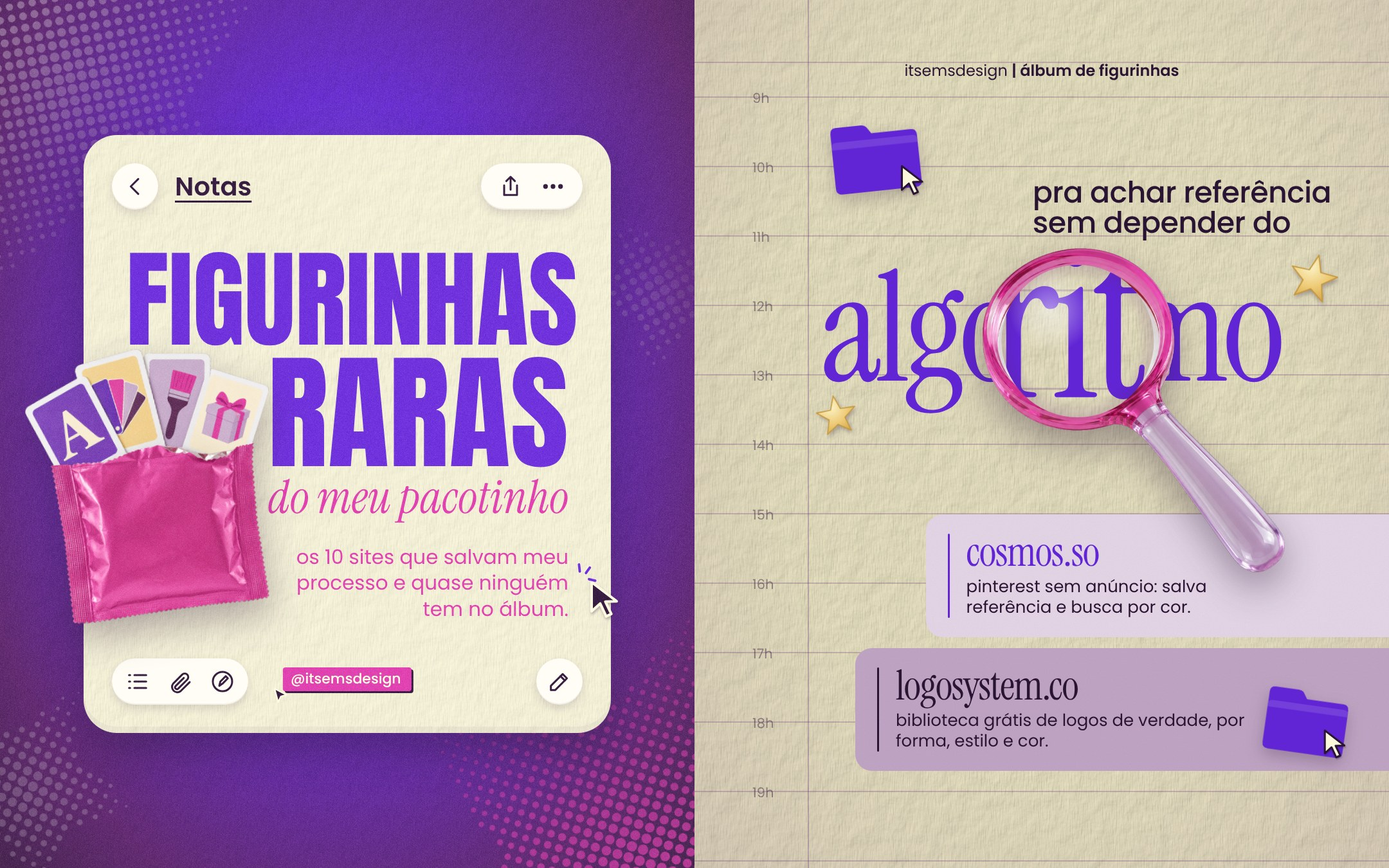
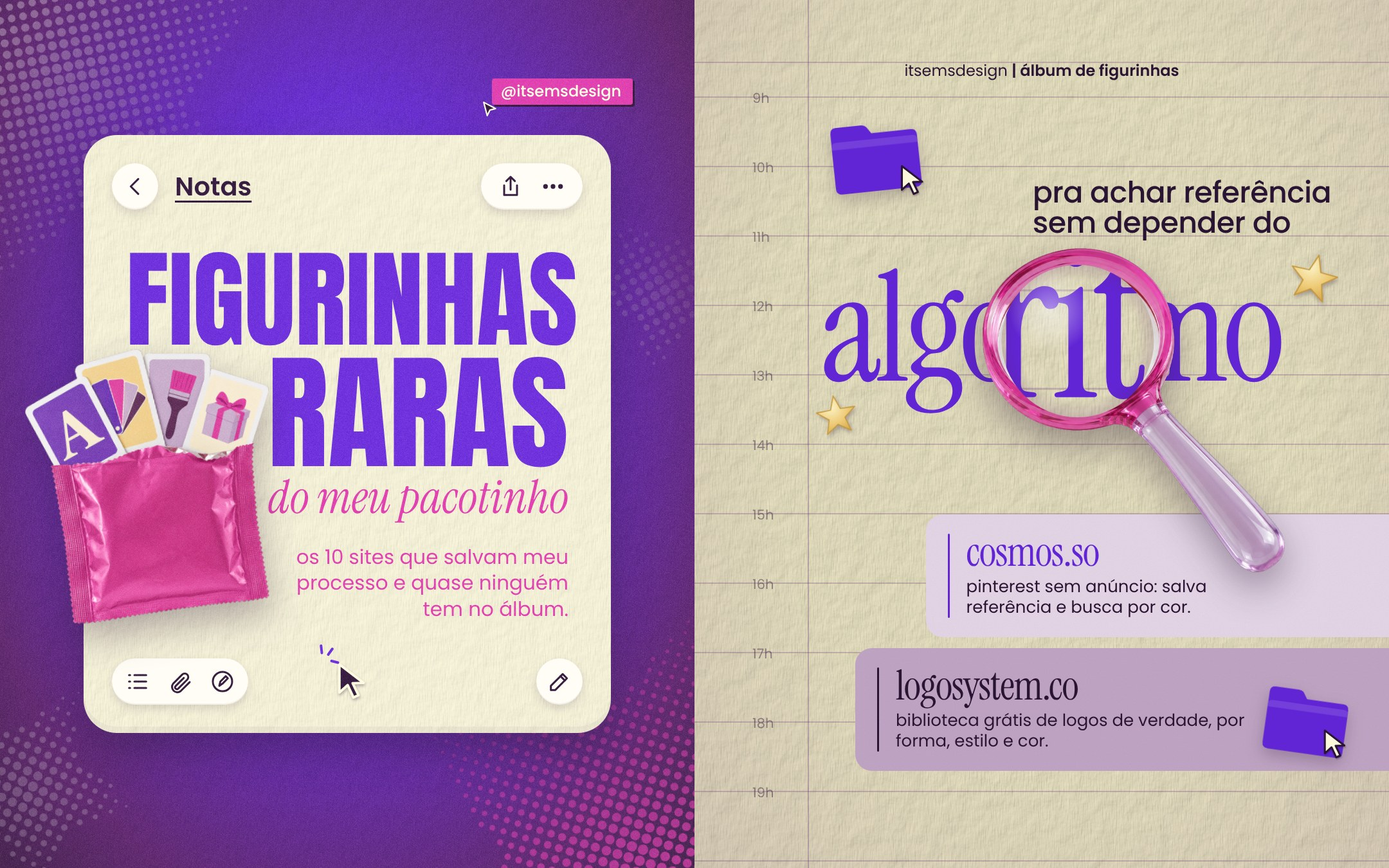
EMS figurinhas raras v4: @ fora do cartão (alto à direita) e clique no meio do pé do cartão
Claude-Session: https://claude.ai/code/session_01CmCiKB9wFc4qQovptupnZT

Changed region(s): [[0.1861, 0.7467, 0.3102, 0.8089], [0.3412, 0.0933, 0.4653, 0.1244], [0.4032, 0.6533, 0.4653, 0.7156]]

diff --git a/Emi/ems-album-figurinhas/projeto/carrossel.html b/Emi/ems-album-figurinhas/projeto/carrossel.html
@@ -106,10 +106,11 @@ const brilho4 = (x, y, tam, cor, r = 0) => `<svg class="abs" style="left:${x}px;
       <div class="abs" style="right:44px;bottom:44px">${botao(ic('<path d="M4 20h4L19 9l-4-4L4 16v4z"/><path d="M13 7l4 4"/>'), 'padding:16px;')}</div>
     </div>
     ${objeto({ x: CX - 74, y: CY + 330, w: 380, r: -8, src: 'pacotinho' })}
-    <div class="handle" style="left:540px;top:${CY + 930 - 44 - 58}px;transform:translateX(-50%);--bg:var(--pink)">@itsemsdesign${CURSOR}</div>
-    <!-- o clique é no cartão: como se abrisse a nota -->
-    <svg class="abs" style="left:912px;top:${CY + 690}px;width:64px;filter:drop-shadow(1px 3px 2px rgba(42,20,51,.35))" viewBox="0 0 24 24"><path d="M3 2 L3 19 L8 14.5 L11.5 22 L14.5 20.6 L11 13.4 L17.6 13.2 Z" fill="${css('tinta')}" stroke="${css('ivory')}" stroke-width="1.5" stroke-linejoin="round"/></svg>
-    <svg class="abs" style="left:880px;top:${CY + 662}px;width:48px" viewBox="0 0 40 40" fill="none" stroke="${css('violeta')}" stroke-width="3.2" stroke-linecap="round"><path d="M30 24 L38 26"/><path d="M26 16 L31 9"/><path d="M18 14 L17 5"/></svg>
+    <!-- nome fora do cartão, no alto à direita -->
+    <div class="handle" style="right:96px;top:122px;--bg:var(--pink);font-size:24px">@itsemsdesign${CURSOR}</div>
+    <!-- o clique é no cartão, embaixo e no meio: como se abrisse a nota -->
+    <svg class="abs" style="left:520px;top:${CY + 930 - 112}px;width:62px;filter:drop-shadow(1px 3px 2px rgba(42,20,51,.35))" viewBox="0 0 24 24"><path d="M3 2 L3 19 L8 14.5 L11.5 22 L14.5 20.6 L11 13.4 L17.6 13.2 Z" fill="${css('tinta')}" stroke="${css('ivory')}" stroke-width="1.5" stroke-linejoin="round"/></svg>
+    <svg class="abs" style="left:478px;top:${CY + 930 - 142}px;width:50px" viewBox="0 0 40 40" fill="none" stroke="${css('violeta')}" stroke-width="3.2" stroke-linecap="round"><path d="M30 24 L38 26"/><path d="M26 16 L31 9"/><path d="M18 14 L17 5"/></svg>
   `, `<div class="abs" style="inset:0;background:radial-gradient(ellipse at 50% 42%, var(--violeta-2) 0%, var(--violeta) 38%, var(--plum) 80%, var(--ameixa) 100%)"></div>
       <div class="abs" style="inset:0;background-image:var(--tx-relevo);background-size:620px;mix-blend-mode:multiply;opacity:.5"></div>
       <div class="abs" style="inset:0;background-image:var(--tx-fibras);background-size:460px;mix-blend-mode:multiply;opacity:.35"></div>`, 'grao-forte');
